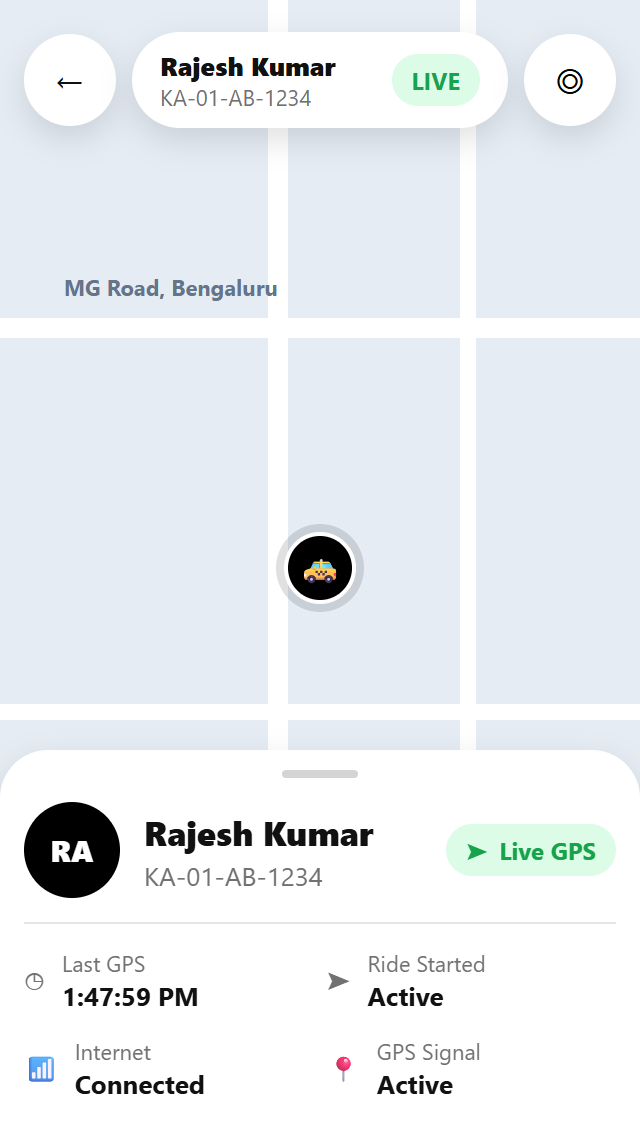
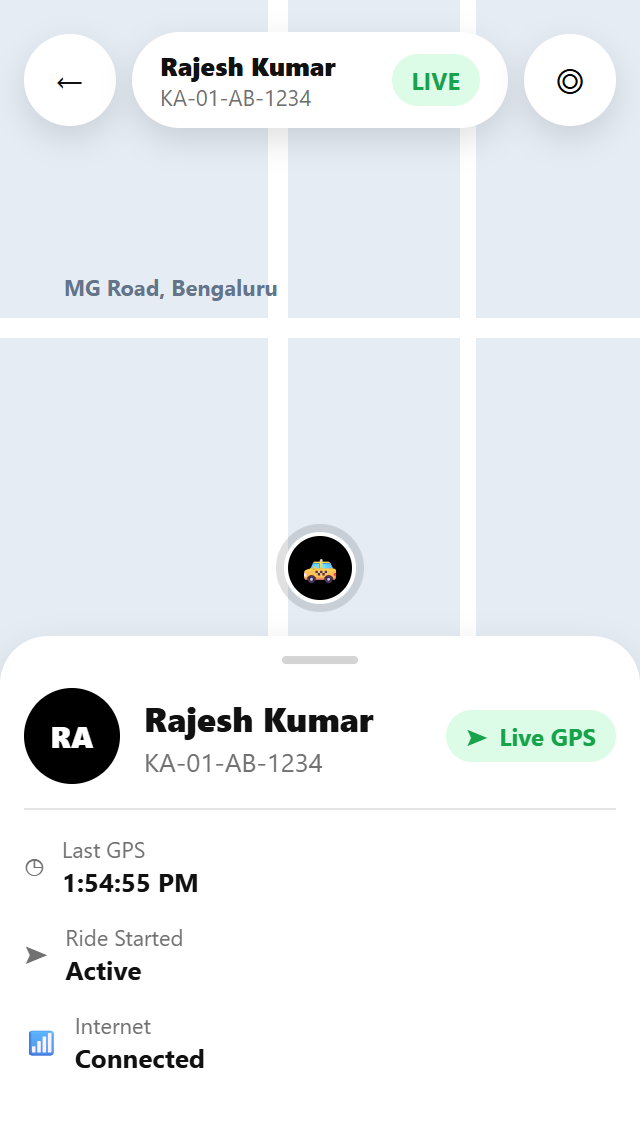
fix(responsive): remove numberOfLines=1 on live map, harden 320px + 150% font scaling, update screenshots

diff --git a/mobile/src/screens/admin/AdminLiveMapScreen.tsx b/mobile/src/screens/admin/AdminLiveMapScreen.tsx
@@ -31,7 +31,7 @@ export const AdminLiveMapScreen: React.FC<{ driverId: string; onBack: () => void
   onBack,
 }) => {
   const insets = useSafeAreaInsets();
-  const { horizontalPadding, height, scaleFont } = useResponsive();
+  const { horizontalPadding, height, isSmallPhone, scaleFont } = useResponsive();
   const [info, setInfo] = useState<DriverLocationPayload | null>(null);
   const [stale, setStale] = useState(false);
   const [loadError, setLoadError] = useState<string | null>(null);
@@ -170,7 +170,7 @@ export const AdminLiveMapScreen: React.FC<{ driverId: string; onBack: () => void
 
         <View style={[styles.topPillCard, Theme.shadow.floating]}>
           <View style={styles.flexText}>
-            <Text style={styles.topDriverName} numberOfLines={1}>
+            <Text style={styles.topDriverName}>
               {info?.driverName || 'Loading...'}
             </Text>
             <Text style={styles.topVehicle}>{info?.vehicleRegistration || 'Cab'}</Text>
@@ -225,21 +225,25 @@ export const AdminLiveMapScreen: React.FC<{ driverId: string; onBack: () => void
               icon="clock"
               label="Last GPS"
               value={info?.capturedAt ? new Date(info.capturedAt).toLocaleTimeString() : 'Unavailable'}
+              fullWidth={isSmallPhone}
             />
             <MetaItem
               icon="navigation"
               label="Ride Started"
               value={info?.rideStartTime ? new Date(info.rideStartTime).toLocaleTimeString() : 'Active'}
+              fullWidth={isSmallPhone}
             />
             <MetaItem
               icon={info?.internetConnected === false ? 'wifi-off' : 'wifi'}
               label="Internet"
               value={info?.internetConnected === false ? 'Offline' : 'Connected'}
+              fullWidth={isSmallPhone}
             />
             <MetaItem
               icon="location"
               label="GPS Signal"
               value={info?.gpsEnabled === false ? 'Unavailable' : 'Active'}
+              fullWidth={isSmallPhone}
             />
           </View>
 
@@ -254,8 +258,13 @@ export const AdminLiveMapScreen: React.FC<{ driverId: string; onBack: () => void
   );
 };
 
-const MetaItem: React.FC<{ icon: any; label: string; value: string }> = ({ icon, label, value }) => (
-  <View style={styles.metaItem}>
+const MetaItem: React.FC<{ icon: any; label: string; value: string; fullWidth?: boolean }> = ({
+  icon,
+  label,
+  value,
+  fullWidth,
+}) => (
+  <View style={[styles.metaItem, fullWidth && styles.metaItemFull]}>
     <AppIcon name={icon} size={14} color={Theme.colors.textSecondary} />
     <View style={styles.flexText}>
       <Text style={styles.metaLabel}>{label}</Text>
@@ -310,7 +319,8 @@ const styles = StyleSheet.create({
   sheetVehicle: { fontSize: 13, color: Theme.colors.textSecondary, marginTop: 2 },
   divider: { height: 1, backgroundColor: Theme.colors.border, marginVertical: 12 },
   metaGrid: { flexDirection: 'row', flexWrap: 'wrap', gap: 12 },
-  metaItem: { width: '47%', flexDirection: 'row', alignItems: 'center', gap: 8 },
+  metaItem: { minWidth: '46%', flex: 1, flexDirection: 'row', alignItems: 'center', gap: 8 },
+  metaItemFull: { minWidth: '100%' },
   metaLabel: { fontSize: 11, color: Theme.colors.textSecondary },
   metaVal: { fontSize: 13, fontWeight: '700', color: Theme.colors.text },
   staleWarn: { fontSize: 12, fontWeight: '700', color: Theme.colors.error, marginTop: 10 },

diff --git a/mobile/src/screens/admin/AdminDriversScreen.tsx b/mobile/src/screens/admin/AdminDriversScreen.tsx
@@ -148,9 +148,9 @@ export const AdminDriversScreen: React.FC<Props> = ({ onSelectDriver }) => {
 
       {/* 3 Stat Cards */}
       <View style={styles.statsRow}>
-        <StatCard label="Active Rides" value={counts.activeRides} color={Theme.colors.success} />
-        <StatCard label="Total Drivers" value={counts.total} color={Theme.colors.primary} />
-        <StatCard label="Offline" value={counts.offline} color={Theme.colors.error} />
+        <StatCard label="Active Rides" value={counts.activeRides} color={Theme.colors.success} compact={isSmallPhone} />
+        <StatCard label="Total Drivers" value={counts.total} color={Theme.colors.primary} compact={isSmallPhone} />
+        <StatCard label="Offline" value={counts.offline} color={Theme.colors.error} compact={isSmallPhone} />
       </View>
 
       {/* Search Bar */}
@@ -248,8 +248,13 @@ export const AdminDriversScreen: React.FC<Props> = ({ onSelectDriver }) => {
   );
 };
 
-const StatCard: React.FC<{ label: string; value: number; color: string }> = ({ label, value, color }) => (
-  <View style={[styles.statCard, Theme.shadow.card]}>
+const StatCard: React.FC<{ label: string; value: number; color: string; compact?: boolean }> = ({
+  label,
+  value,
+  color,
+  compact,
+}) => (
+  <View style={[styles.statCard, Theme.shadow.card, compact && styles.statCardCompact]}>
     <Text style={[styles.statVal, { color }]}>{value}</Text>
     <Text style={styles.statLbl}>{label}</Text>
   </View>
@@ -300,6 +305,7 @@ const styles = StyleSheet.create({
     paddingHorizontal: 8,
     alignItems: 'center',
   },
+  statCardCompact: { minWidth: '47%' },
   statVal: { fontSize: 20, fontWeight: '800' },
   statLbl: { fontSize: 11, color: Theme.colors.textSecondary, marginTop: 2, textAlign: 'center', fontWeight: '600' },
   searchBox: {

diff --git a/mobile/src/screens/driver/DriverDashboardScreen.tsx b/mobile/src/screens/driver/DriverDashboardScreen.tsx
@@ -250,7 +250,7 @@ const styles = StyleSheet.create({
     alignItems: 'center',
     justifyContent: 'center',
   },
-  mapContainer: { flex: 1, minHeight: 220, position: 'relative' },
+  mapContainer: { flex: 1, minHeight: 140, position: 'relative' },
   map: { ...StyleSheet.absoluteFillObject },
   mapOverlayPills: {
     position: 'absolute',
